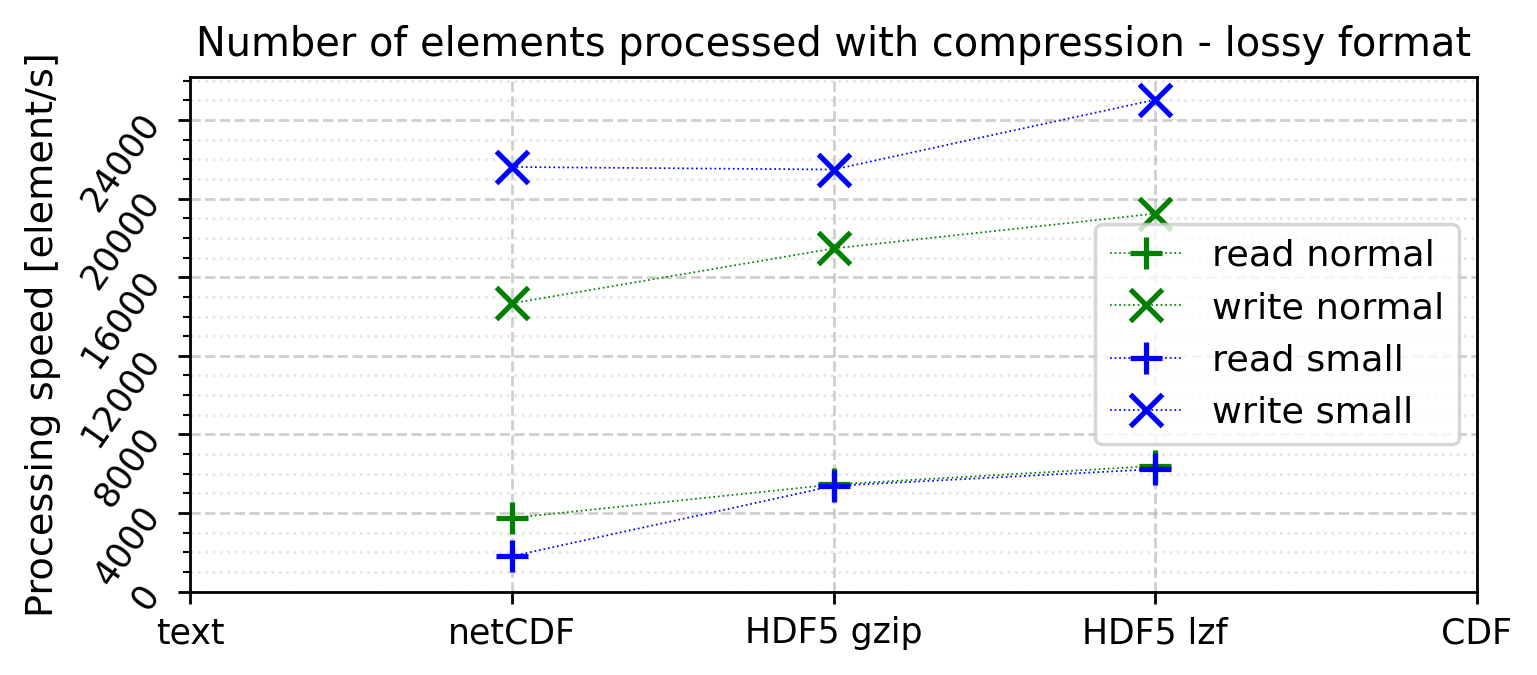
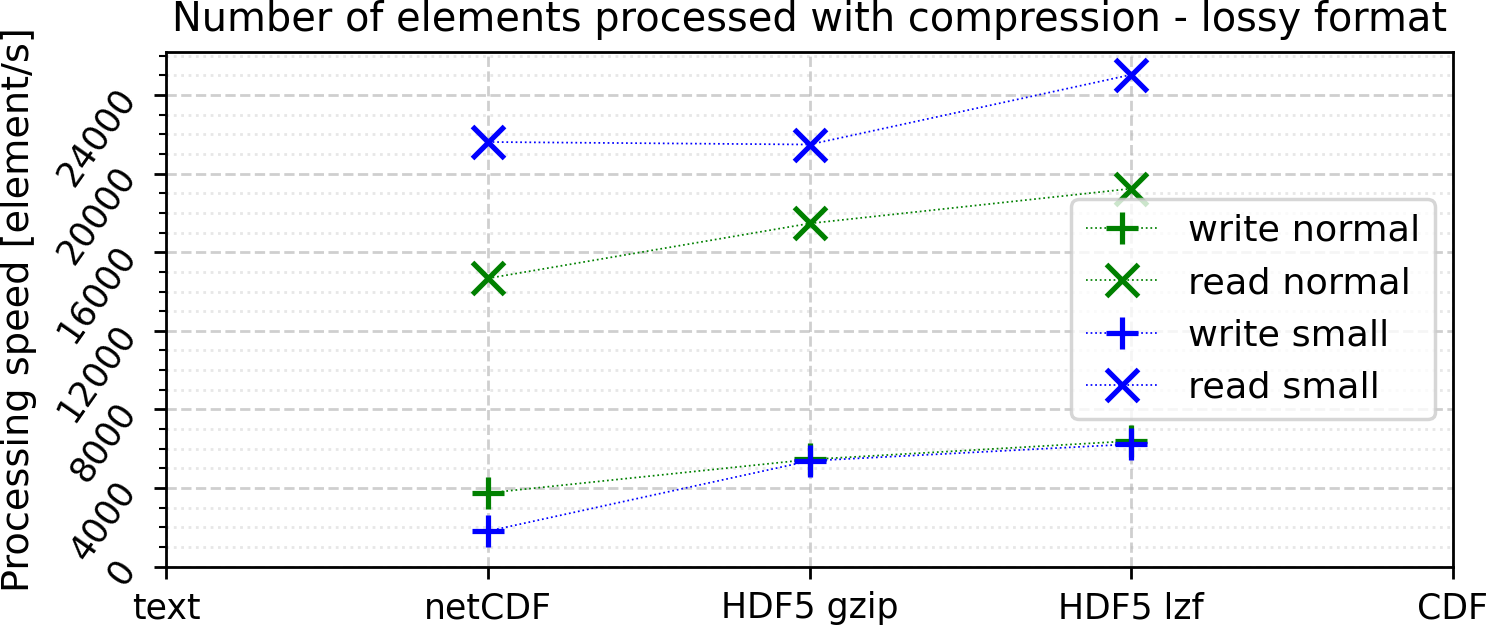
Corrected order of read/write labels.

Changed region(s): [[0.0, 0.0, 1.0, 1.0]]

diff --git a/result_analysis/plot.py b/result_analysis/plot.py
@@ -40,7 +40,7 @@ def plot_(labels, data, markers, colors, label_names, filename, ylabel, title, l
 
 #markers = ["s", "+", "x", "D", "1", "8", "p", "*"]
 
-label_names = ["read normal", "write normal", "read small", "write small", "lossy read normal", "lossy write normal", "lossy read small", "lossy write small"]
+label_names = ["write normal", "read normal", "write small", "read small", "lossy write normal", "lossy read normal", "lossy write small", "lossy read small"]
 ################################xx
 ##########
 """data = [
@@ -132,7 +132,19 @@ data = np.array([
     np.concatenate(((100*((-d.normal_uncompressed_sz[0]+d.normal_uncompressed_sz[0][0])/d.normal_uncompressed_sz[0][0]))/(d.normal_uncompressed_ram[1]),(100*((-d.normal_compressed_sz[0]+d.normal_uncompressed_sz[0][0])/d.normal_uncompressed_sz[0][0]))/d.normal_compressed_ram[1])),
     np.concatenate(((100*((-d.small_uncompressed_sz[0]+d.small_uncompressed_sz[0][0])/d.small_uncompressed_sz[0][0]))/(d.small_uncompressed_ram[0]),(100*((-d.small_compressed_sz[0]+d.small_uncompressed_sz[0][0])/d.small_uncompressed_sz[0][0]))/d.small_compressed_ram[0])),
     np.concatenate(((100*((-d.small_uncompressed_sz[0]+d.small_uncompressed_sz[0][0])/d.small_uncompressed_sz[0][0]))/(d.small_uncompressed_ram[1]),(100*((-d.small_compressed_sz[0]+d.small_uncompressed_sz[0][0])/d.small_uncompressed_sz[0][0]))/d.small_compressed_ram[1])),
+])
+#data = 1 / data
+for i in range(0, len(data)):
+    data[i][np.isinf(np.abs(data[i]))] = 0
+    data[i][np.isnan(np.abs(data[i]))] = np.nan
+    data[i][data[i] < 0] = np.nan
 
+colors = ['green','blue','red','black']#['green','blue']#
+markers = ["+", "x"]#["+", "+", "x", "x"]#
+
+plot_(d.all_labels, data, markers, colors, label_names, '9_1_rps.png', "[%/s]", "Size reduction per second with compression - lossless", False, [12,4], "")
+
+data = np.array([
     np.concatenate(((100*((-d.normal_uncompressed_sz[1]+d.normal_uncompressed_sz[0][0])/d.normal_uncompressed_sz[0][0]))/d.normal_uncompressed_ram[2],(100*((-d.normal_compressed_sz[1]+d.normal_uncompressed_sz[0][0])/d.normal_uncompressed_sz[0][0]))/d.normal_compressed_ram[2])),
     np.concatenate(((100*((-d.normal_uncompressed_sz[1]+d.normal_uncompressed_sz[0][0])/d.normal_uncompressed_sz[0][0]))/d.normal_uncompressed_ram[3],(100*((-d.normal_compressed_sz[1]+d.normal_uncompressed_sz[0][0])/d.normal_uncompressed_sz[0][0]))/d.normal_compressed_ram[3])),
     np.concatenate(((100*((-d.small_uncompressed_sz[1]+d.small_uncompressed_sz[0][0])/d.small_uncompressed_sz[0][0]))/d.small_uncompressed_ram[2],(100*((-d.small_compressed_sz[1]+d.small_uncompressed_sz[0][0])/d.small_uncompressed_sz[0][0]))/d.small_compressed_ram[2])),
@@ -145,10 +157,10 @@ for i in range(0, len(data)):
     data[i][np.isnan(np.abs(data[i]))] = np.nan
     data[i][data[i] < 0] = np.nan
 
-colors = ['green','blue','red','black', 'purple','brown','orange','yellowgreen']#['green','blue']#
-markers = ["+", "x", "+", "x"]#["+", "+", "x", "x"]#
+colors = ['green','blue','red','black']#['green','blue']#
+markers = ["+", "x"]#["+", "+", "x", "x"]#
 
-plot_(d.all_labels, data, markers, colors, label_names, '9_9_rps.png', "[%/s]", "Size reduction per second with compression", False, [12,4], "")
+plot_(d.all_labels, data, markers, colors, label_names, '9_2_rps.png', "[%/s]", "Size reduction per second with compression - lossless", False, [12,4], "")
 
 """data = [
     d.normal_uncompressed_ssd[0]/d.normal_uncompressed_ram[0],

diff --git a/hdf.py b/hdf.py
@@ -139,11 +139,11 @@ cn.test(lambda: readSmall(), "gzip lossy compressed sf w", SUDO_PASSWD, iters)
 
 cn.test(lambda: writeSmall("lzf", True, None), "lzf compressed sf w", SUDO_PASSWD, iters, GLOBAL_FN_SMALL)
 cn.test(lambda: readSmall(), "lzf compressed sf w", SUDO_PASSWD, iters)
-compareSmall()
+#compareSmall()
 
 cn.test(lambda: writeSmall("lzf", True, 2), "lzf lossy compressed sf w", SUDO_PASSWD, iters, GLOBAL_FN_SMALL)
 cn.test(lambda: readSmall(), "lzf lossy compressed sf w", SUDO_PASSWD, iters)
-compareSmall()
+#compareSmall()
 
 
 

diff --git a/netCDF.py b/netCDF.py
@@ -136,11 +136,11 @@ cn.test(lambda: readSmall(), "uncompressed sf r", SUDO_PASSWD, iters)
 
 cn.test(lambda: writeSmall(True, None), "compressed sf w", SUDO_PASSWD, iters, GLOBAL_FN_SMALL)
 cn.test(lambda: readSmall(), "compressed sf r", SUDO_PASSWD, iters)
-compareSmall()
+#compareSmall()
 
 cn.test(lambda: writeSmall(True, 2), "lossy compressed sf w", SUDO_PASSWD, iters, GLOBAL_FN_SMALL)
 cn.test(lambda: readSmall(), "lossy compressed sf r", SUDO_PASSWD, iters)
-compareSmall()
+#compareSmall()
 
 
 

diff --git a/common.py b/common.py
@@ -152,7 +152,7 @@ def generateSFvalues(size):
 	arrayData = {"intens":[],"lcr":[],"ucr":[],"ecr":[]}
 	for i in range(0, size):
 		#urobit bezne rozsahy cisel
-		randI = float(random.randint(0,20)) + float(random.randint(0,1000))/1000
+		randI = float(random.randint(0, 20)) + float(random.randint(0, 1000)) / 1000
 		highComponent = randI * 2
 		middleComponent = randI + randI/2
 		if randI > 10:

diff --git a/CDF.py b/CDF.py
@@ -125,7 +125,7 @@ cn.test(lambda: readSmall(), "uncompressed sf r", SUDO_PASSWD, iters)
 
 cn.test(lambda: writeSmall(9), "compressed sf w", SUDO_PASSWD, iters, GLOBAL_FN_SMALL)
 cn.test(lambda: readSmall(), "compressed sf r", SUDO_PASSWD, iters)
-compareSmall()
+#compareSmall()
 
 
 
